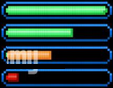
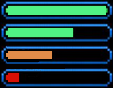
MenuAchat

diff --git a/jeu/IHM/MenuAchat.py b/jeu/IHM/MenuAchat.py
@@ -1,5 +1,6 @@
 import core
 from jeu.IHM.BarreAmelioration import BarreAmelioration
+from jeu.IHM.Bouton1 import Bouton1
 
 
 class MenuAchat:
@@ -11,16 +12,82 @@ class MenuAchat:
         core.memory("TextureAchat", core.Texture('./Image/MenuAchat.png', (65, 50), 0, (650, 500)))
         self.position = core.memory("TextureAchat").pos
         self.money = 0
-        self.barreameMuni = BarreAmelioration()
-        self.vitesseVaisseau = BarreAmelioration()
-        self.nbTir = BarreAmelioration()
-        self.vitesseMunition = BarreAmelioration()
 
-    def affichageMenu(self):
+        self.barreameMuni = BarreAmelioration(130, 375)
+        self.vitesseVaisseau = BarreAmelioration(130, 465)
+        self.nbTir = BarreAmelioration(325, 375)
+        self.vitesseMunition = BarreAmelioration(325, 465)
 
+        self.MuniP = 1
+        self.MuniB = Bouton1(255, 163, "")
+
+        self.VVP = 1
+        self.VVB = Bouton1(335, 265, "")
+
+        self.NBTP = 1
+        self.NBTB = Bouton1(600, 163, "")
+
+        self.VMP = 1
+        self.VMB = Bouton1(620, 265, "")
+
+    def affichageMenu(self, VaisseauV):
         if not core.memory("TextureAchat").ready:
             core.memory("TextureAchat").load()
         core.memory("TextureAchat").show()
 
-        core.Draw.text((255,255,255), str(core.memory("maPartie").money), (520 + self.position[0] - 25 * (len(str(self.money))), 355 + self.position[1]),50)
+        self.barreameMuni.show()
+        self.vitesseVaisseau.show()
+        self.nbTir.show()
+        self.vitesseMunition.show()
 
+        self.MuniB.show()
+        self.VVB.show()
+        self.NBTB.show()
+        self.VMB.show()
+
+        core.Draw.text((255, 255, 255), str(core.memory("maPartie").money),
+                       (520 + self.position[0] - 25 * (len(str(self.money))), 355 + self.position[1]), 50)
+
+        core.Draw.text((255, 255, 255), "Munition :", (150, 150), 20)
+        core.Draw.text((255, 255, 255), "Vitesse du Vaisseau :", (150, 250), 20)
+        core.Draw.text((255, 255, 255), "Nombre de Tir :", (450, 150), 20)
+        core.Draw.text((255, 255, 255), "Vitesse du Missile :", (450, 250), 20)
+
+        core.Draw.text((0, 0, 0), str(self.MuniP), (250, 150), 20)
+        core.Draw.text((0, 0, 0), str(self.VVP), (330, 253), 20)
+        core.Draw.text((0, 0, 0), str(self.NBTP), (595, 150), 20)
+        core.Draw.text((0, 0, 0), str(self.VMP), (615, 253), 20)
+
+        if self.MuniB.update1():
+            if self.barreameMuni.stat < 4:
+                if core.memory("maPartie").money >= self.MuniP:
+                    self.barreameMuni.stat += 1
+                    core.memory("maPartie").money -= self.MuniP
+                    self.MuniP *= 2
+                    core.memory("maPartie").munition += 1
+
+        if self.VVB.update1():
+            if self.vitesseVaisseau.stat < 4:
+                if core.memory("maPartie").money >= self.VVP:
+                    self.vitesseVaisseau.stat += 1
+                    core.memory("maPartie").money -= self.VVP
+                    self.VVP *= 2
+                    self.speedincreeseJoueur(VaisseauV)
+
+        if self.NBTB.update1():
+            if self.nbTir.stat < 4:
+                if core.memory("maPartie").money >= self.NBTP:
+                    self.nbTir.stat += 1
+                    core.memory("maPartie").money -= self.NBTP
+                    self.NBTP *= 2
+
+        if self.VMB.update1():
+            if self.vitesseMunition.stat < 4:
+                if core.memory("maPartie").money >= self.VMP:
+                    self.vitesseMunition.stat += 1
+                    core.memory("maPartie").money -= self.VMP
+                    self.VMP *= 2
+                    core.memory("maPartie").Vmissile *= 1.4
+
+    def speedincreeseJoueur(self, Joueur):
+        Joueur.speed *= 1.3

diff --git a/jeu/Partie.py b/jeu/Partie.py
@@ -26,21 +26,22 @@ class Partie:
         self.MissileAntiRebond = 1
         self.Coins = []
         self.Fires = []
-        self.money = 0
+        self.money = 50
         self.MenuAchat = MenuAchat()
         self.ActiveMenuAchat = False
 
+        self.Vmissile = 10
+
         self.score = 0
 
-        core.memory("son", core.Sound("./Sound/piouu1.mp3",1))
-
+        core.memory("son", core.Sound("./Sound/piouu1.mp3", 1))
 
     def addJoueur(self):
         self.monVaisseau = Vaisseau()
 
     def addMissile(self):
         for i in range(self.munition):
-            self.monMissile.append(Missile(1200))
+            self.monMissile.append(Missile(1200, self.Vmissile))
 
     def show(self):
         self.monVaisseau.show()
@@ -63,7 +64,7 @@ class Partie:
             self.updateAchat()
 
     def updateAchat(self):
-        self.MenuAchat.affichageMenu()
+        self.MenuAchat.affichageMenu(self.monVaisseau)
 
     def updateJeu(self):
         core.Draw.text(self.couleur, 'Score: ' + str(self.score), (10, 10))
@@ -98,8 +99,8 @@ class Partie:
             for i in self.monMissile:
                 if e.collisionMissile(i):
                     i.alive = False
-                    self.addCoin(e.position[0],e.position[1])
-                    self.addFire(e.position[0],e.position[1])
+                    self.addCoin(e.position[0], e.position[1])
+                    self.addFire(e.position[0], e.position[1])
                     i.position = (1200, 1200)
                     e.position = (randint(0, 700), 100)
                     e.sens = 0

diff --git a/jeu/Main.py b/jeu/Main.py
@@ -36,10 +36,10 @@ def setup():
     background = core.Texture("./Image/Fond_ecran800.png", (0, 0), 0, core.WINDOW_SIZE)
 
     core.memory("TextureVaisseau", core.Texture('./Image/Vaisseau.png', (0, 0), 0, (50, 50)))
-    core.memory("Barredame4", core.Texture('./Image/Vaisseau.png', (0, 0), 0, (50, 50)))
-    core.memory("Barredame3", core.Texture('./Image/Vaisseau.png', (0, 0), 0, (50, 50)))
-    core.memory("Barredame2", core.Texture('./Image/Vaisseau.png', (0, 0), 0, (50, 50)))
-    core.memory("Barredame1", core.Texture('./Image/Vaisseau.png', (0, 0), 0, (50, 50)))
+    core.memory("Barredame4", core.Texture('./Image/Barredame4.png', (0, 0), 0, (100, 19)))
+    core.memory("Barredame3", core.Texture('./Image/Barredame3.png', (0, 0), 0, (100, 19)))
+    core.memory("Barredame2", core.Texture('./Image/Barredame2.png', (0, 0), 0, (100, 19)))
+    core.memory("Barredame1", core.Texture('./Image/Barredame1.png', (0, 0), 0, (100, 19)))
 
     core.memory("maPartie").addJoueur()
     core.memory("maPartie").addMissile()

diff --git a/jeu/IHM/Bouton1.py b/jeu/IHM/Bouton1.py
@@ -6,7 +6,7 @@ import core
 
 
 class Bouton1:
-    def __init__(self, coordX, coordY ,var , Visible=True, URL=""):  # constructeur
+    def __init__(self, coordX, coordY, var, Visible=True, URL=""):  # constructeur
         self.Adresse = URL
         self.visible = Visible
         self.couleur = (255, 255, 255)
@@ -28,10 +28,14 @@ class Bouton1:
                 self.Skin.show()
 
     def update(self):
-            if self.distanceCheck() and core.memory('gestionFront').update():
-                print(self.var)
-                print(self.var.value)
-                core.memory('etat', self.var)
+        if self.distanceCheck() and core.memory('gestionFront').update():
+            print(self.var)
+            print(self.var.value)
+            core.memory('etat', self.var)
+
+    def update1(self):
+        if self.distanceCheck() and core.memory('gestionFront').update():
+            return True
 
     def distanceCheck(self):
         self.mouse = pygame.mouse.get_pos()

diff --git a/jeu/Vaisseau.py b/jeu/Vaisseau.py
@@ -6,7 +6,7 @@ from PIL import Image, ImageDraw
 
 class Vaisseau:
     def __init__(self):  # constructeur
-        self.vitesse = 10
+        self.speed = 10
         self.position = (100, 535)
         self.mass = 20
 
@@ -20,9 +20,9 @@ class Vaisseau:
 
     def deplacement(self):  # Deplacmement du vaisseau suivant les touches pressé
         if core.getKeyPressList("d") and self.position[0] < 775:
-            self.position = (self.position[0] + self.vitesse, self.position[1])
+            self.position = (self.position[0] + self.speed, self.position[1])
         if core.getKeyPressList("q") and self.position[0] > 25:
-            self.position = (self.position[0] + -self.vitesse, self.position[1])
+            self.position = (self.position[0] + -self.speed, self.position[1])
 
     def getPosX(self):
         return self.position[0]

diff --git a/jeu/Missile.py b/jeu/Missile.py
@@ -2,8 +2,8 @@ import core
 
 
 class Missile:
-    def __init__(self, coordX):  # constructeur
-        self.vitesse = 10
+    def __init__(self, coordX, Vitesse):  # constructeur
+        self.vitesse = Vitesse
         self.position = (coordX, 550)
         self.mass = 5
         self.alive = False

diff --git a/jeu/IHM/BarreAmelioration.py b/jeu/IHM/BarreAmelioration.py
@@ -4,8 +4,8 @@ import core
 
 
 class BarreAmelioration:
-    def __int__(self,coordX,coordY):
-        self.position = Vector2(coordX,coordY)
+    def __init__(self, coordX, coordY):
+        self.position = Vector2(coordX, coordY)
         self.stat = 1
         self.textureURL = "Barredame"
 
